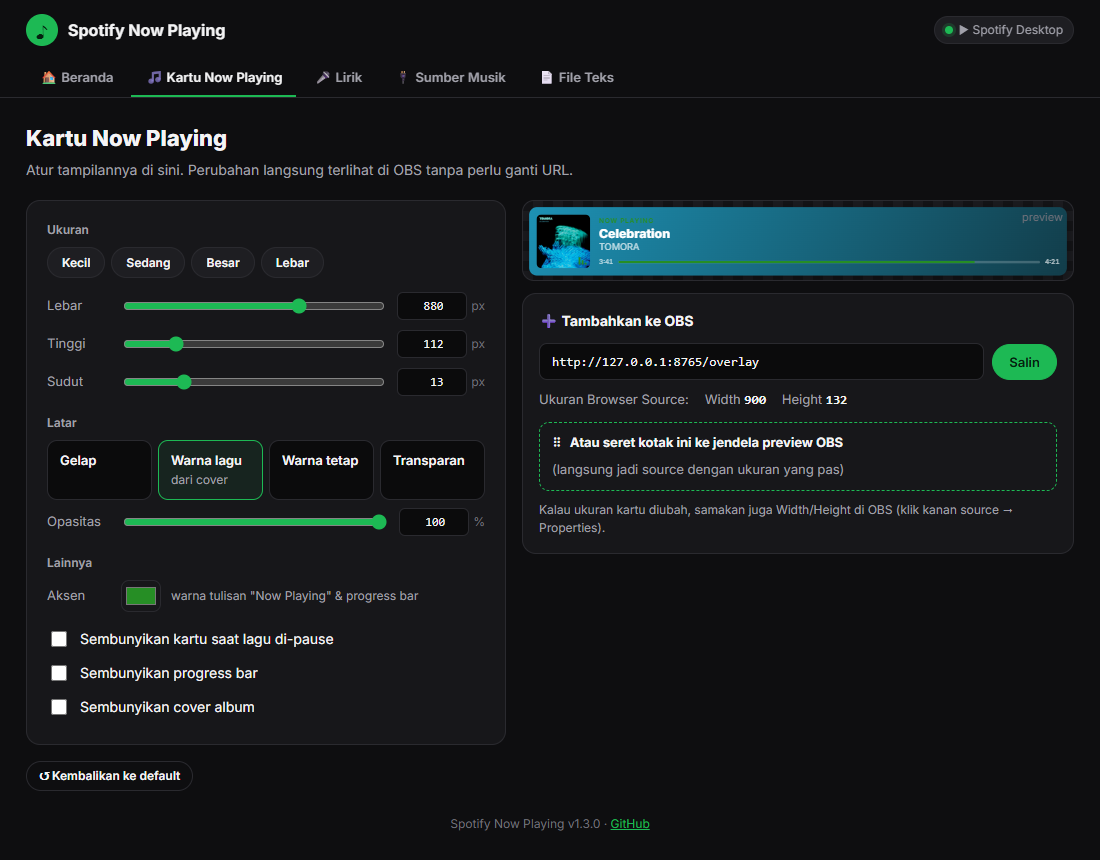
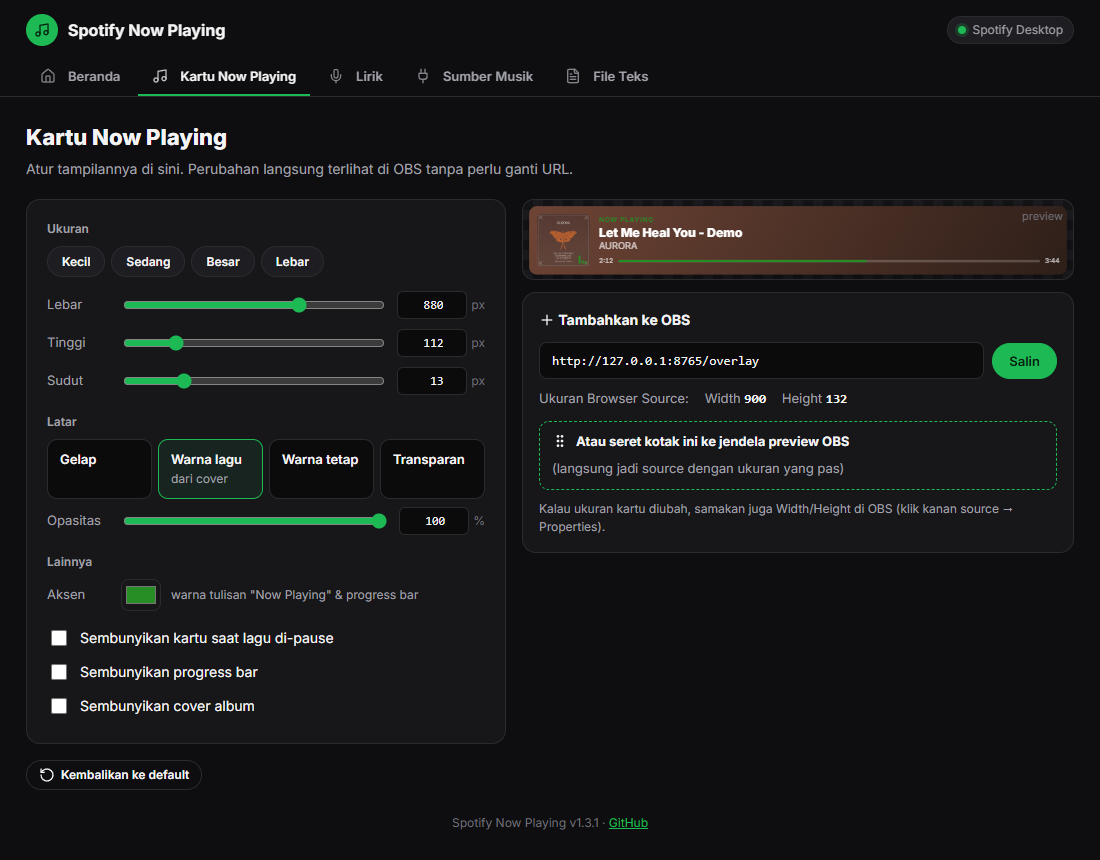
v1.3.1: ganti emoji dengan ikon Lucide
- Semua emoji di halaman pengaturan diganti ikon SVG Lucide (inline,
  tetap tampil tanpa internet)
- Hapus simbol dekoratif di teks dan notifikasi
- README: hapus emoji

diff --git a/spotify_now_playing/web/settings.html b/spotify_now_playing/web/settings.html
@@ -20,7 +20,10 @@
   header { position: sticky; top: 0; z-index: 5; background: rgba(14,14,16,.92); backdrop-filter: blur(10px); border-bottom: 1px solid var(--line); }
   .bar { max-width: 1080px; margin: 0 auto; padding: 14px 16px 0; }
   .brand { display: flex; align-items: center; gap: 10px; }
-  .logo { width: 32px; height: 32px; border-radius: 50%; background: var(--accent); display: grid; place-items: center; color: var(--accent-fg); font-weight: 800; }
+  .logo { width: 32px; height: 32px; border-radius: 50%; background: var(--accent); display: grid; place-items: center; color: var(--accent-fg); }
+  .i { width: 16px; height: 16px; flex: 0 0 auto; fill: none; stroke: currentColor; stroke-width: 2; stroke-linecap: round; stroke-linejoin: round; vertical-align: -3px; }
+  .i-lg { width: 22px; height: 22px; } .i-xl { width: 36px; height: 36px; stroke-width: 1.5; }
+  nav button .i { margin-right: 6px; opacity: .8; }
   .brand h1 { font-size: 16px; margin: 0; flex: 1; }
   .pill { display: inline-flex; align-items: center; gap: 6px; padding: 4px 10px; border-radius: 99px; background: var(--panel2); border: 1px solid var(--line); font-size: 12px; color: var(--muted); white-space: nowrap; }
   .dot { width: 8px; height: 8px; border-radius: 50%; background: var(--dim); flex: 0 0 auto; }
@@ -84,7 +87,7 @@
   .hero .t { font-size: 24px; font-weight: 800; line-height: 1.2; margin: 4px 0; }
   .hero .a { color: var(--muted); }
   .empty { display: flex; gap: 16px; align-items: center; }
-  .empty .big { font-size: 40px; }
+  .empty .big { color: var(--dim); display: grid; }
 
   .steps { display: grid; gap: 12px; }
   .step { display: flex; gap: 16px; align-items: flex-start; background: var(--panel); border: 1px solid var(--line); border-radius: 14px; padding: 18px 20px; }
@@ -130,7 +133,7 @@
   .choice { position: relative; display: block; border: 1px solid var(--line); border-radius: 14px; padding: 18px; background: var(--panel); cursor: pointer; }
   .choice input { position: absolute; opacity: 0; }
   .choice:has(input:checked) { border-color: var(--accent); background: rgba(29,185,84,.06); }
-  .choice .ic { font-size: 22px; }
+  .choice .ic { color: var(--accent); display: inline-grid; }
   .choice b { display: block; margin: 6px 0 4px; font-size: 15px; }
   .choice p { margin: 0; color: var(--muted); font-size: 13px; }
   .badge { position: absolute; top: 14px; right: 14px; font-size: 11px; font-weight: 700; color: var(--accent-fg); background: var(--accent); border-radius: 99px; padding: 2px 8px; }
@@ -144,19 +147,40 @@
 </style>
 </head>
 <body>
+<!-- Ikon: Lucide (https://lucide.dev, ISC License) -->
+<svg width="0" height="0" style="position:absolute" aria-hidden="true">
+  <symbol id="i-home" viewBox="0 0 24 24"><path d="M15 21v-8a1 1 0 0 0-1-1h-4a1 1 0 0 0-1 1v8"/><path d="M3 10a2 2 0 0 1 .709-1.528l7-5.999a2 2 0 0 1 2.582 0l7 5.999A2 2 0 0 1 21 10v9a2 2 0 0 1-2 2H5a2 2 0 0 1-2-2z"/></symbol>
+  <symbol id="i-music" viewBox="0 0 24 24"><path d="M9 18V5l12-2v13"/><circle cx="6" cy="18" r="3"/><circle cx="18" cy="16" r="3"/></symbol>
+  <symbol id="i-mic" viewBox="0 0 24 24"><path d="M12 2a3 3 0 0 0-3 3v7a3 3 0 0 0 6 0V5a3 3 0 0 0-3-3Z"/><path d="M19 10v2a7 7 0 0 1-14 0v-2"/><line x1="12" x2="12" y1="19" y2="22"/></symbol>
+  <symbol id="i-plug" viewBox="0 0 24 24"><path d="M12 22v-5"/><path d="M9 8V2"/><path d="M15 8V2"/><path d="M18 8v5a4 4 0 0 1-4 4h-4a4 4 0 0 1-4-4V8Z"/></symbol>
+  <symbol id="i-file" viewBox="0 0 24 24"><path d="M15 2H6a2 2 0 0 0-2 2v16a2 2 0 0 0 2 2h12a2 2 0 0 0 2-2V7Z"/><path d="M14 2v4a2 2 0 0 0 2 2h4"/><path d="M10 9H8"/><path d="M16 13H8"/><path d="M16 17H8"/></symbol>
+  <symbol id="i-alert" viewBox="0 0 24 24"><path d="m21.73 18-8-14a2 2 0 0 0-3.48 0l-8 14A2 2 0 0 0 4 21h16a2 2 0 0 0 1.73-3"/><path d="M12 9v4"/><path d="M12 17h.01"/></symbol>
+  <symbol id="i-headphones" viewBox="0 0 24 24"><path d="M3 14h3a2 2 0 0 1 2 2v3a2 2 0 0 1-2 2H5a2 2 0 0 1-2-2v-7a9 9 0 0 1 18 0v7a2 2 0 0 1-2 2h-1a2 2 0 0 1-2-2v-3a2 2 0 0 1 2-2h3"/></symbol>
+  <symbol id="i-copy" viewBox="0 0 24 24"><rect width="14" height="14" x="8" y="8" rx="2" ry="2"/><path d="M4 16c-1.1 0-2-.9-2-2V4c0-1.1.9-2 2-2h10c1.1 0 2 .9 2 2"/></symbol>
+  <symbol id="i-sliders" viewBox="0 0 24 24"><line x1="21" x2="14" y1="4" y2="4"/><line x1="10" x2="3" y1="4" y2="4"/><line x1="21" x2="12" y1="12" y2="12"/><line x1="8" x2="3" y1="12" y2="12"/><line x1="21" x2="16" y1="20" y2="20"/><line x1="12" x2="3" y1="20" y2="20"/><line x1="14" x2="14" y1="2" y2="6"/><line x1="8" x2="8" y1="10" y2="14"/><line x1="16" x2="16" y1="18" y2="22"/></symbol>
+  <symbol id="i-reset" viewBox="0 0 24 24"><path d="M3 12a9 9 0 1 0 9-9 9.75 9.75 0 0 0-6.74 2.74L3 8"/><path d="M3 3v5h5"/></symbol>
+  <symbol id="i-plus" viewBox="0 0 24 24"><path d="M5 12h14"/><path d="M12 5v14"/></symbol>
+  <symbol id="i-grip" viewBox="0 0 24 24"><circle cx="9" cy="12" r="1"/><circle cx="9" cy="5" r="1"/><circle cx="9" cy="19" r="1"/><circle cx="15" cy="12" r="1"/><circle cx="15" cy="5" r="1"/><circle cx="15" cy="19" r="1"/></symbol>
+  <symbol id="i-monitor" viewBox="0 0 24 24"><rect width="20" height="14" x="2" y="3" rx="2"/><line x1="8" x2="16" y1="21" y2="21"/><line x1="12" x2="12" y1="17" y2="21"/></symbol>
+  <symbol id="i-refresh" viewBox="0 0 24 24"><path d="M3 12a9 9 0 0 1 9-9 9.75 9.75 0 0 1 6.74 2.74L21 8"/><path d="M21 3v5h-5"/><path d="M21 12a9 9 0 0 1-9 9 9.75 9.75 0 0 1-6.74-2.74L3 16"/><path d="M8 16H3v5"/></symbol>
+  <symbol id="i-phone" viewBox="0 0 24 24"><rect width="14" height="20" x="5" y="2" rx="2" ry="2"/><path d="M12 18h.01"/></symbol>
+  <symbol id="i-check" viewBox="0 0 24 24"><circle cx="12" cy="12" r="10"/><path d="m9 12 2 2 4-4"/></symbol>
+  <symbol id="i-eye" viewBox="0 0 24 24"><path d="M2.062 12.348a1 1 0 0 1 0-.696 10.75 10.75 0 0 1 19.876 0 1 1 0 0 1 0 .696 10.75 10.75 0 0 1-19.876 0"/><circle cx="12" cy="12" r="3"/></symbol>
+  <symbol id="i-folder" viewBox="0 0 24 24"><path d="m6 14 1.5-2.9A2 2 0 0 1 9.24 10H20a2 2 0 0 1 1.94 2.5l-1.54 6a2 2 0 0 1-1.95 1.5H4a2 2 0 0 1-2-2V5a2 2 0 0 1 2-2h3.9a2 2 0 0 1 1.69.9l.81 1.2a2 2 0 0 0 1.67.9H18a2 2 0 0 1 2 2v2"/></symbol>
+</svg>
 <header>
   <div class="bar">
     <div class="brand">
-      <div class="logo">♪</div>
+      <div class="logo"><svg class="i"><use href="#i-music"/></svg></div>
       <h1>Spotify Now Playing</h1>
       <span class="pill"><span class="dot" id="pill-dot"></span><span id="pill-text">Memuat…</span></span>
     </div>
     <nav id="tabs">
-      <button data-tab="home">🏠 Beranda</button>
-      <button data-tab="card">🎵 Kartu Now Playing</button>
-      <button data-tab="lyrics">🎤 Lirik</button>
-      <button data-tab="source">🔌 Sumber Musik</button>
-      <button data-tab="files">📄 File Teks</button>
+      <button data-tab="home"><svg class="i"><use href="#i-home"/></svg>Beranda</button>
+      <button data-tab="card"><svg class="i"><use href="#i-music"/></svg>Kartu Now Playing</button>
+      <button data-tab="lyrics"><svg class="i"><use href="#i-mic"/></svg>Lirik</button>
+      <button data-tab="source"><svg class="i"><use href="#i-plug"/></svg>Sumber Musik</button>
+      <button data-tab="files"><svg class="i"><use href="#i-file"/></svg>File Teks</button>
     </nav>
   </div>
 </header>
@@ -164,7 +188,7 @@
 <main>
   <!-- ======================= BERANDA ======================= -->
   <section class="page" id="page-home">
-    <div class="banner warn" id="home-error" hidden><span>⚠</span><span id="home-error-text"></span></div>
+    <div class="banner warn" id="home-error" hidden><svg class="i" style="color:var(--warn);margin-top:2px"><use href="#i-alert"/></svg><span id="home-error-text"></span></div>
 
     <div class="panel">
       <div class="hero" id="np" hidden>
@@ -176,7 +200,7 @@
         </div>
       </div>
       <div class="empty" id="np-empty">
-        <div class="big">🎧</div>
+        <div class="big"><svg class="i i-xl"><use href="#i-headphones"/></svg></div>
         <div>
           <b>Belum ada lagu yang diputar</b>
           <div class="muted" id="np-empty-hint">Buka Spotify Desktop dan putar lagu. Lagunya akan muncul di sini.</div>
@@ -202,8 +226,8 @@
           <h4>Tambahkan kartu Now Playing ke OBS</h4>
           <p>Salin URL di bawah. Lalu di OBS buka <b>Sources → + → Browser</b>, tempel URL-nya, dan isi ukurannya <b id="home-card-size">480 × 132</b>.</p>
           <div class="actions">
-            <button class="primary" data-copy-text="card-url">📋 Salin URL kartu</button>
-            <button class="ghost" data-goto="card">🎨 Atur tampilan</button>
+            <button class="primary" data-copy-text="card-url"><svg class="i"><use href="#i-copy"/></svg> Salin URL kartu</button>
+            <button class="ghost" data-goto="card"><svg class="i"><use href="#i-sliders"/></svg> Atur tampilan</button>
           </div>
         </div>
       </div>
@@ -214,8 +238,8 @@
           <h4>Tambahkan lirik <span class="opt">opsional</span></h4>
           <p>Caranya sama seperti langkah 2, dengan ukuran <b>800 × 340</b>. <span id="home-lyrics-status"></span></p>
           <div class="actions">
-            <button data-copy-text="lyrics-url">📋 Salin URL lirik</button>
-            <button class="ghost" data-goto="lyrics">🎨 Atur tampilan</button>
+            <button data-copy-text="lyrics-url"><svg class="i"><use href="#i-copy"/></svg> Salin URL lirik</button>
+            <button class="ghost" data-goto="lyrics"><svg class="i"><use href="#i-sliders"/></svg> Atur tampilan</button>
           </div>
         </div>
       </div>
@@ -275,19 +299,19 @@
             <label class="check"><input type="checkbox" id="o-nocover"> Sembunyikan cover album</label>
           </div>
         </div>
-        <button class="ghost sm" id="o-reset">↺ Kembalikan ke default</button>
+        <button class="ghost sm" id="o-reset"><svg class="i"><use href="#i-reset"/></svg> Kembalikan ke default</button>
       </div>
 
       <div class="sticky">
         <div class="preview" id="card-preview"><span class="tag">preview</span><iframe id="card-frame" title="Preview kartu"></iframe></div>
         <div class="obs">
-          <h3>➕ Tambahkan ke OBS</h3>
+          <h3><svg class="i"><use href="#i-plus"/></svg> Tambahkan ke OBS</h3>
           <div class="row">
             <input type="text" class="mono" id="card-url" readonly>
             <button class="primary" data-copy="card-url">Salin</button>
           </div>
           <div class="size">Ukuran Browser Source: <span>Width <b id="card-w">480</b></span><span>Height <b id="card-h">132</b></span></div>
-          <a class="drag" id="card-drag" draggable="true">⠿ <b>Atau seret kotak ini ke jendela preview OBS</b> <span>(langsung jadi source dengan ukuran yang pas)</span></a>
+          <a class="drag" id="card-drag" draggable="true"><svg class="i"><use href="#i-grip"/></svg> <b>Atau seret kotak ini ke jendela preview OBS</b> <span>(langsung jadi source dengan ukuran yang pas)</span></a>
           <p class="muted small" style="margin:10px 0 0">Kalau ukuran kartu diubah, samakan juga Width/Height di OBS (klik kanan source → Properties).</p>
         </div>
       </div>
@@ -335,19 +359,19 @@
             <p class="muted small" style="margin:0">Lirik telat? Geser ke <b>+</b>. Lirik terlalu cepat? Geser ke <b>−</b>.</p>
           </div>
         </div>
-        <button class="ghost sm" id="l-reset">↺ Kembalikan ke default</button>
+        <button class="ghost sm" id="l-reset"><svg class="i"><use href="#i-reset"/></svg> Kembalikan ke default</button>
       </div>
 
       <div class="sticky">
         <div class="preview" id="ly-preview-box"><span class="tag">preview</span><div class="placeholder" id="ly-placeholder" hidden></div><iframe id="ly-frame" title="Preview lirik"></iframe></div>
         <div class="obs">
-          <h3>➕ Tambahkan ke OBS</h3>
+          <h3><svg class="i"><use href="#i-plus"/></svg> Tambahkan ke OBS</h3>
           <div class="row">
             <input type="text" class="mono" id="lyrics-url" readonly>
             <button class="primary" data-copy="lyrics-url">Salin</button>
           </div>
           <div class="size">Ukuran Browser Source: <span>Width <b>800</b></span><span>Height <b>340</b></span><span>(boleh diubah)</span></div>
-          <a class="drag" id="ly-drag" draggable="true">⠿ <b>Atau seret kotak ini ke jendela preview OBS</b></a>
+          <a class="drag" id="ly-drag" draggable="true"><svg class="i"><use href="#i-grip"/></svg> <b>Atau seret kotak ini ke jendela preview OBS</b></a>
           <p class="muted small" style="margin:10px 0 0">Mau teks biasa? Gunakan file <code>lyrics.txt</code>, ada di tab File Teks.</p>
         </div>
       </div>
@@ -363,23 +387,23 @@
       <label class="choice" id="src-local">
         <input type="radio" name="source" value="local">
         <span class="badge">Disarankan</span>
-        <span class="ic">💻</span><b>Spotify Desktop</b>
+        <span class="ic"><svg class="i i-lg"><use href="#i-monitor"/></svg></span><b>Spotify Desktop</b>
         <p>Membaca Spotify di PC ini. Tanpa login, tanpa setup.</p>
       </label>
       <label class="choice">
         <input type="radio" name="source" value="auto">
-        <span class="ic">✨</span><b>Otomatis</b>
+        <span class="ic"><svg class="i i-lg"><use href="#i-refresh"/></svg></span><b>Otomatis</b>
         <p>Pakai akun Spotify kalau bisa. Kalau tidak, pindah ke Spotify Desktop.</p>
       </label>
       <label class="choice">
         <input type="radio" name="source" value="account">
-        <span class="ic">📱</span><b>Akun Spotify</b>
+        <span class="ic"><svg class="i i-lg"><use href="#i-phone"/></svg></span><b>Akun Spotify</b>
         <p>Baca dari semua device (HP, speaker, dll). Perlu login dan akun Premium.</p>
       </label>
     </div>
 
     <div class="panel" id="local-ok">
-      <b>✅ Siap dipakai</b>
+      <b style="display:flex;align-items:center;gap:8px"><svg class="i" style="color:var(--accent)"><use href="#i-check"/></svg> Siap dipakai</b>
       <p class="muted" style="margin:6px 0 0">Mode ini tidak butuh pengaturan apa pun. Pastikan saja Spotify Desktop terbuka dan sedang memutar lagu.</p>
     </div>
 
@@ -415,7 +439,7 @@
           <span class="label">Client Secret <span style="font-weight:400">(opsional, boleh dikosongkan)</span></span>
           <div class="row">
             <input type="password" class="mono" id="secret" placeholder="kosongkan saja" autocomplete="off" spellcheck="false">
-            <button id="toggle-secret" title="Tampilkan">👁</button>
+            <button id="toggle-secret" title="Tampilkan"><svg class="i"><use href="#i-eye"/></svg></button>
           </div>
           <div class="muted small" id="secret-saved" style="margin-top:6px"></div>
         </div>
@@ -438,7 +462,7 @@
         <div class="row">
           <input type="text" class="mono" id="outdir" readonly>
           <button data-copy="outdir">Salin</button>
-          <button class="primary" id="open-out">📂 Buka folder</button>
+          <button class="primary" id="open-out"><svg class="i"><use href="#i-folder"/></svg> Buka folder</button>
         </div>
       </div>
       <table style="width:100%;border-collapse:collapse;font-size:13px">
@@ -457,7 +481,7 @@
           <input type="text" id="t-format" placeholder="{artist} - {title}" spellcheck="false">
           <button class="primary" id="t-save">Simpan</button>
         </div>
-        <div class="muted small" style="margin-top:6px">Bisa pakai <code>{title}</code> <code>{artist}</code> <code>{album}</code>. Contoh: <code>♪ {title} — {artist}</code></div>
+        <div class="muted small" style="margin-top:6px">Bisa pakai <code>{title}</code> <code>{artist}</code> <code>{album}</code>. Contoh: <code>Now playing: {title} — {artist}</code></div>
       </div>
       <label class="check"><input type="checkbox" id="t-hide"> Kosongkan teks saat lagu di-pause</label>
     </div>
@@ -492,7 +516,7 @@ async function api(path, body) {
 async function copy(text) {
   try { await navigator.clipboard.writeText(text); }
   catch { const t = document.createElement("textarea"); t.value = text; document.body.appendChild(t); t.select(); document.execCommand("copy"); t.remove(); }
-  toast("✓ Tersalin, tinggal tempel di OBS");
+  toast("URL tersalin, tinggal tempel di OBS");
 }
 
 // ------------------------------------------------------------------ tab --
@@ -637,7 +661,7 @@ $("l-reset").onclick = () => { loadLyrics(LYRICS_DEFAULT); updateLyrics(); toast
 
 function renderLyricsStatus(l) {
   const map = {
-    synced: ["ok", "Lirik ditemukan ✓", `${l.lines.length} baris tersinkron untuk lagu ini`],
+    synced: ["ok", "Lirik ditemukan", `${l.lines.length} baris tersinkron untuk lagu ini`],
     plain: ["warn", "Lirik tanpa timing", "LRCLIB belum punya versi tersinkron untuk lagu ini, jadi lirik tidak ditampilkan"],
     instrumental: ["", "Instrumental", "Lagu ini tanpa lirik"],
     none: ["warn", "Lirik tidak ditemukan", "Lagu ini belum ada di LRCLIB. Coba putar lagu lain."],
@@ -650,7 +674,7 @@ function renderLyricsStatus(l) {
   $("ly-placeholder").textContent = l.status === "loading" ? "Mencari lirik…"
     : "Preview lirik akan muncul di sini saat lagu yang punya lirik sedang diputar.";
   $("ly-dot").className = "dot " + dot; $("ly-title").textContent = title; $("ly-msg").textContent = msg;
-  $("home-lyrics-status").textContent = l.status === "synced" ? "✓ Lirik lagu ini tersedia."
+  $("home-lyrics-status").textContent = l.status === "synced" ? "Lirik lagu ini tersedia."
     : l.status === "none" ? "Lirik lagu ini belum tersedia." : "";
 }
 
@@ -741,7 +765,7 @@ function renderStatus(c, now) {
   const s = c.status;
   const labels = { account: "Akun Spotify", local: "Spotify Desktop", idle: "Menunggu lagu" };
   $("pill-dot").className = "dot " + (s.error ? "warn" : now.active ? "ok" : "");
-  $("pill-text").textContent = now.active ? (now.playing ? "▶ " : "⏸ ") + labels[s.source] : labels[s.source];
+  $("pill-text").textContent = labels[s.source] + (now.active && !now.playing ? " (pause)" : "");
 
   $("np").hidden = !now.active;
   $("np-empty").hidden = now.active;
@@ -778,7 +802,7 @@ async function refresh() {
 }
 
 const qs = new URLSearchParams(location.search);
-if (qs.get("login") === "ok") { toast("Login berhasil 🎉"); location.hash = "source"; }
+if (qs.get("login") === "ok") { toast("Login berhasil"); location.hash = "source"; }
 if (qs.get("login") === "error") { toast("Login gagal: " + (qs.get("msg") || ""), true); location.hash = "source"; }
 if (qs.has("login")) history.replaceState(null, "", "/settings" + location.hash);
 

diff --git a/spotify_now_playing/__init__.py b/spotify_now_playing/__init__.py
@@ -1,4 +1,4 @@
 """Spotify Now Playing untuk OBS."""
 
-__version__ = "1.3.0"
+__version__ = "1.3.1"
 APP_NAME = "Spotify Now Playing"

diff --git a/README.md b/README.md
@@ -1,6 +1,6 @@
 # Spotify Now Playing untuk OBS
 
-**[⬇ Download installer (Windows)](https://github.com/mohammadraflyy/spotify-now-playing/releases/latest)**
+**[Download installer (Windows)](https://github.com/mohammadraflyy/spotify-now-playing/releases/latest)**
 
 Menampilkan lagu yang sedang diputar dan lirik tersinkron dari Spotify di OBS.
 
